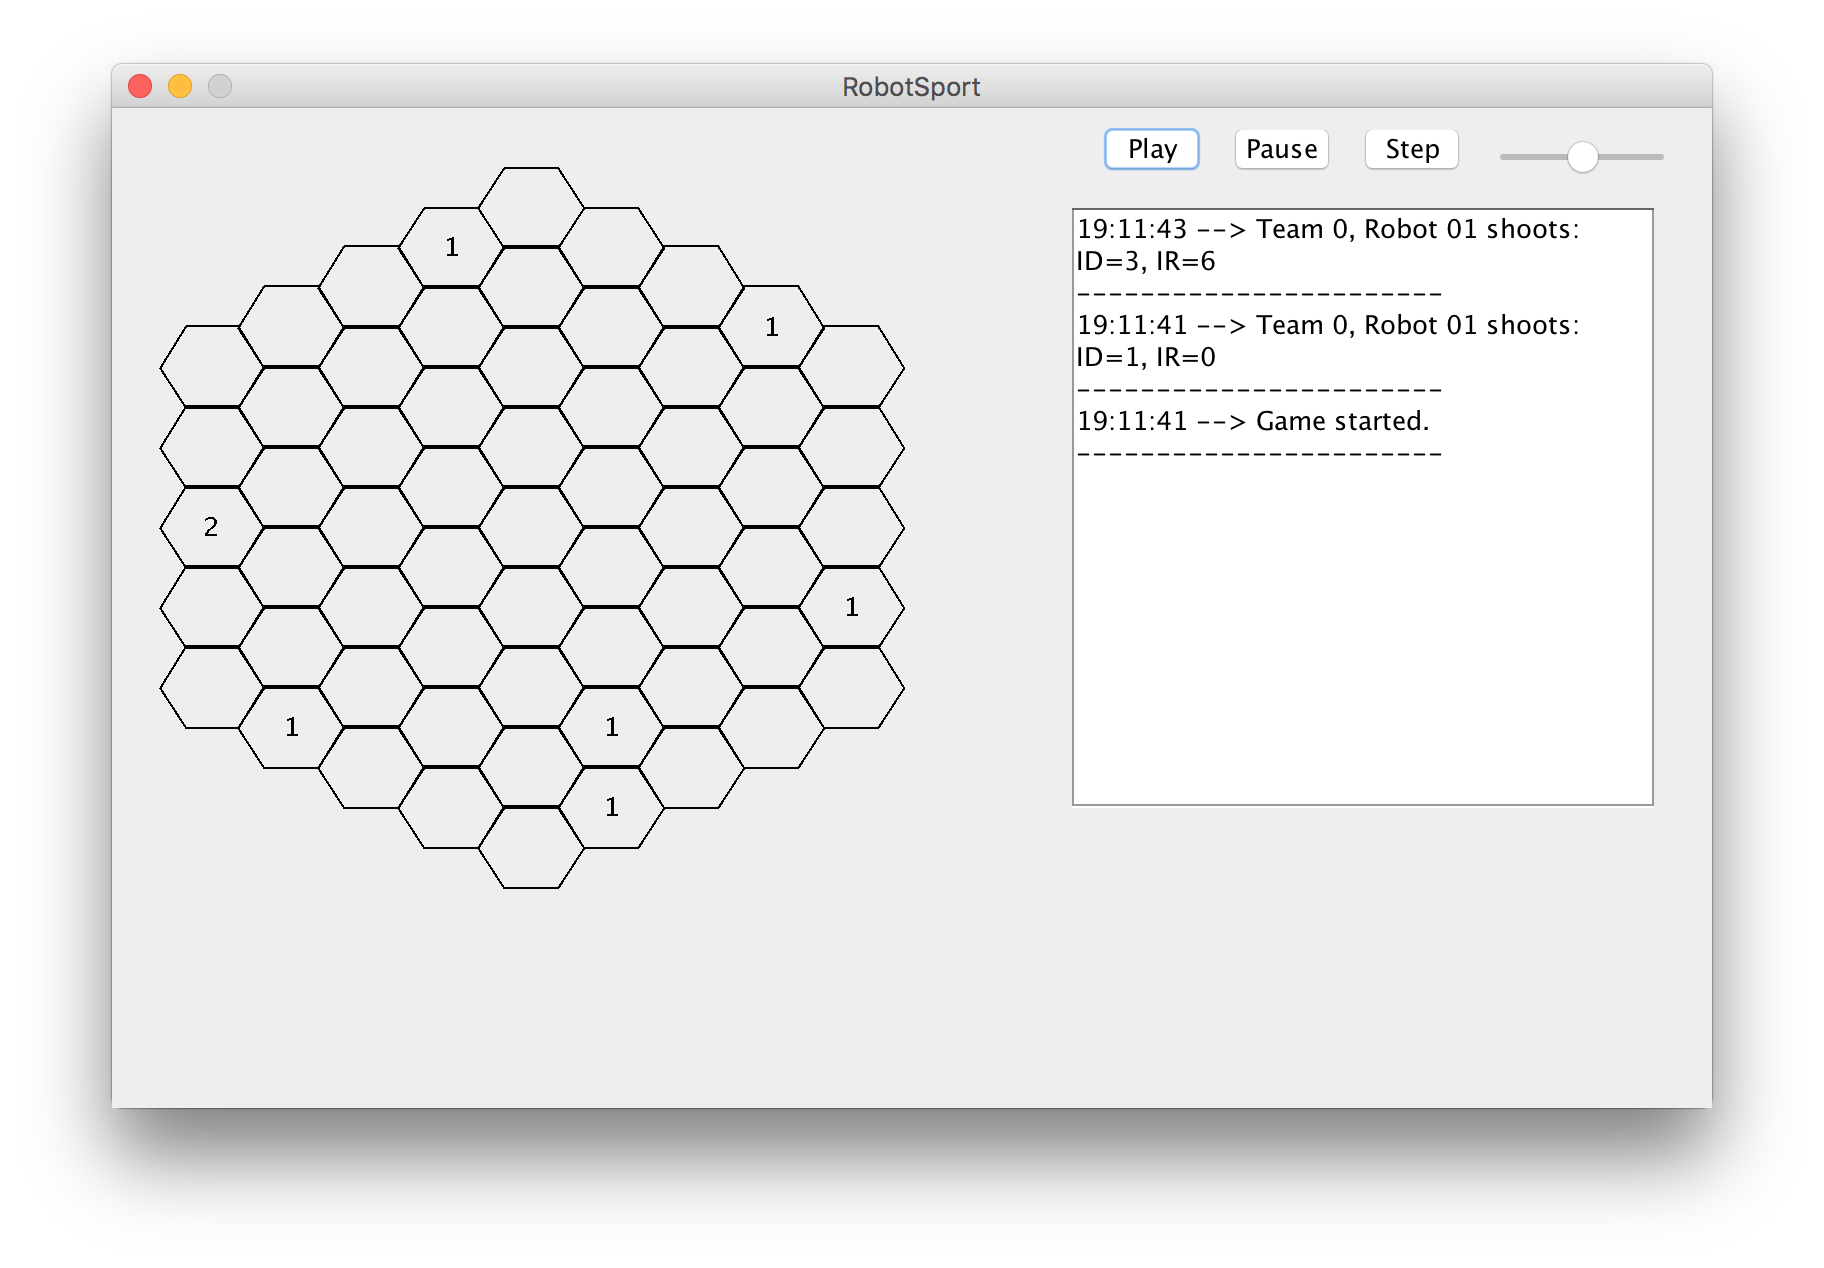
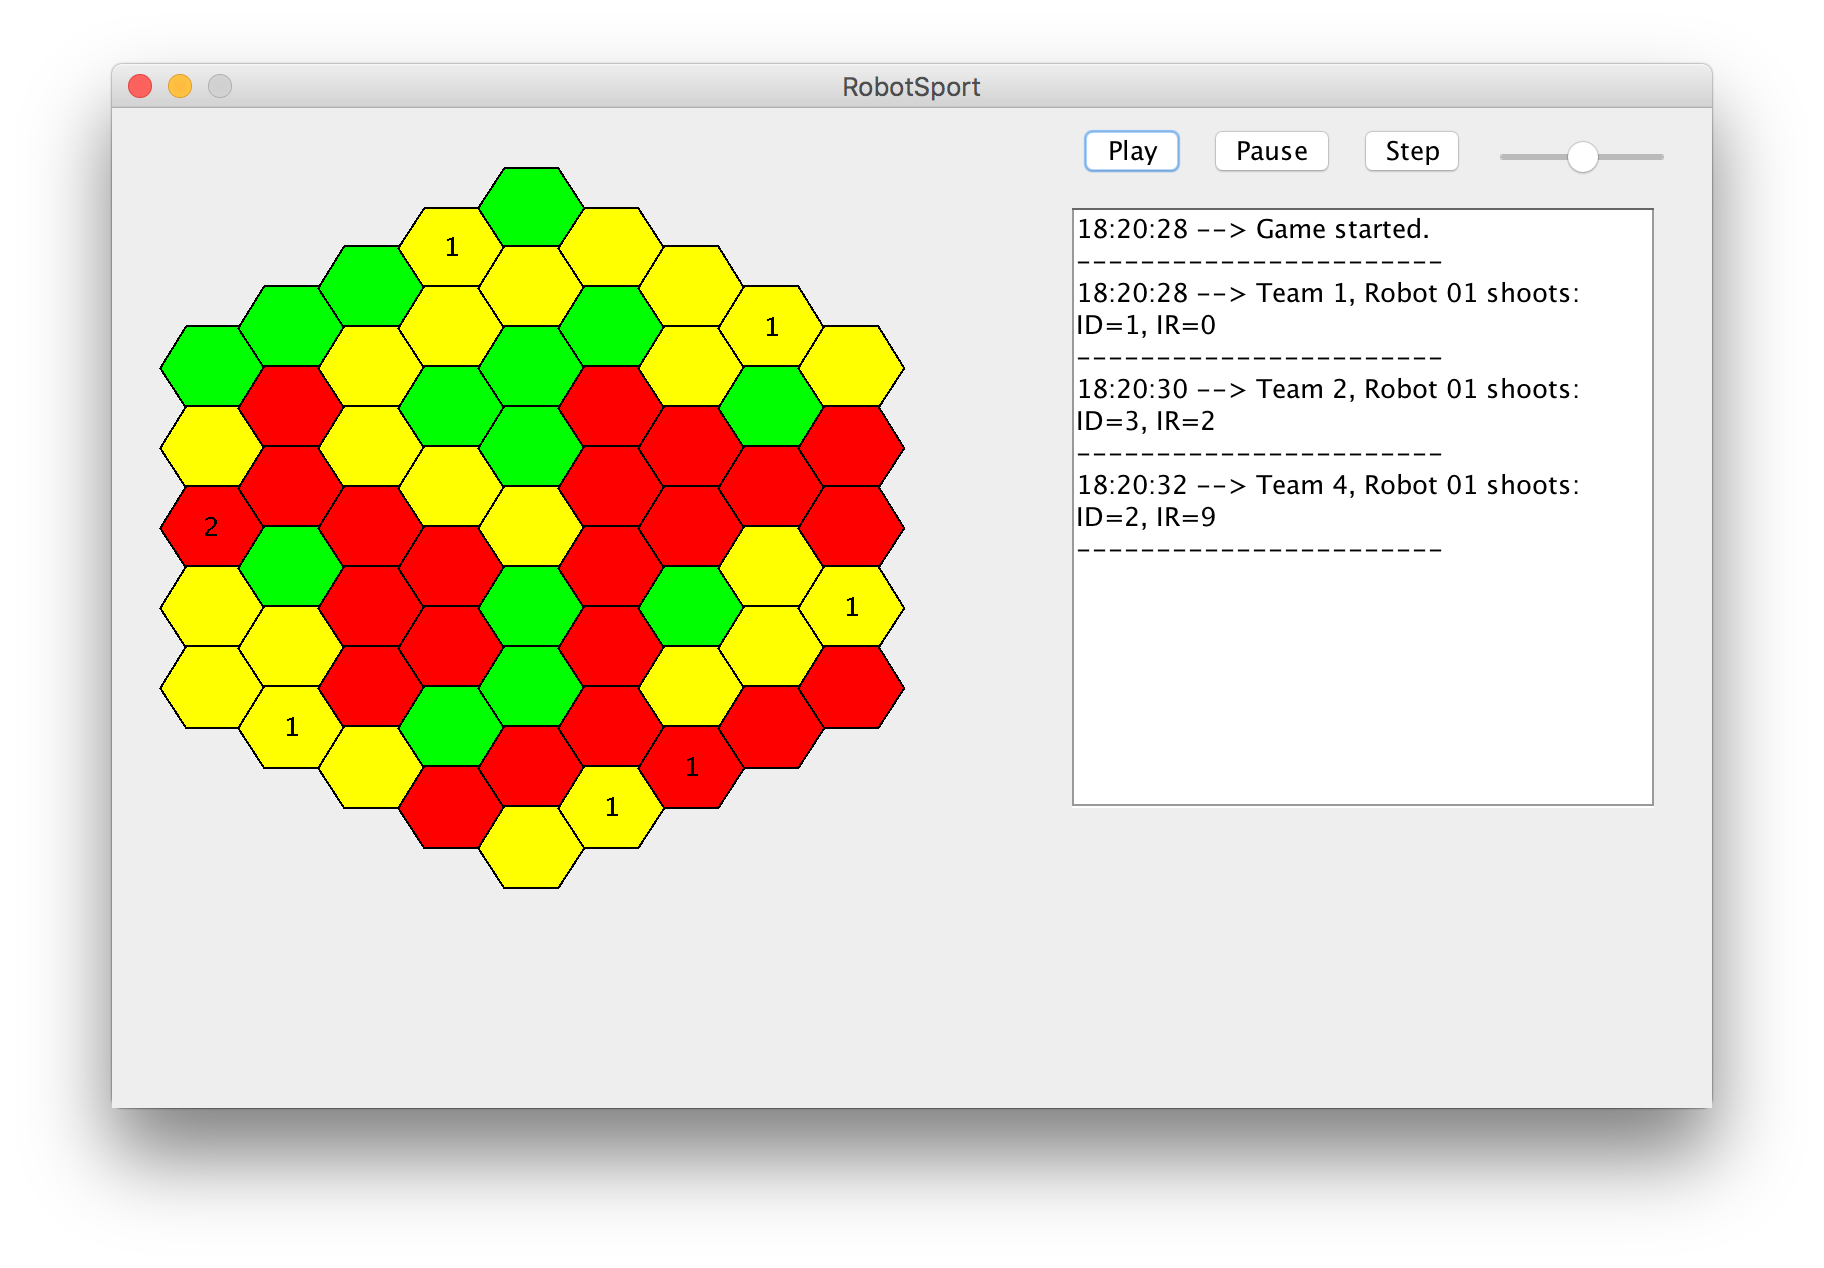
Added cell difficulties

diff --git a/src/src/views/HexGridDisplay.java b/src/src/views/HexGridDisplay.java
@@ -1,6 +1,8 @@
 package views;
 
+import java.awt.Color;
 import java.awt.Graphics;
+
 import javax.swing.JPanel;
 
 import models.Cell;
@@ -44,6 +46,21 @@ public class HexGridDisplay extends JPanel {
 						xPoint[i] = spacing + (int) (x*spacing + (spacing/1.5f)*Math.cos(i*2*Math.PI/6));
 						yPoint[i] = spacing + vertOffset + (int) (y*spacing + (spacing/1.7f)*Math.sin(i*2*Math.PI/6));
 					}
+					int difficulty = cells[x][y].getDifficulty();
+					switch(difficulty){
+					case 0:
+						g.setColor(Color.GREEN);
+						break;
+					case 1:
+						g.setColor(Color.YELLOW);
+						break;
+					case 2:
+						g.setColor(Color.RED);
+						break;
+					}
+					g.fillPolygon(xPoint, yPoint, 6);
+					g.setColor(Color.black);
+					g.drawPolygon(xPoint, yPoint, 6);
 					if(cells[x][y].getOccupants() != null) {
 						int count = cells[x][y].getOccupants().size();
 						if(count > 0) {
@@ -53,7 +70,6 @@ public class HexGridDisplay extends JPanel {
 										spacing + vertOffset + y*spacing + (getFontMetrics(getFont()).getHeight() / 4));
 						}
 					}
-					g.drawPolygon(xPoint, yPoint, 6);
 				}
 			}
 		}

diff --git a/src/src/models/Cell.java b/src/src/models/Cell.java
@@ -1,13 +1,16 @@
 package models;
 
 import java.util.LinkedList;
+import java.util.Random;
 
 public class Cell {
 	protected LinkedList<Robot> occupants = new LinkedList<Robot>();
 	protected boolean valid = false; // Cells are initially just placeholders
+	protected int difficulty;
 	
 	public Cell() {
-		
+		Random r = new Random();
+		difficulty = Math.abs(r.nextInt()) % 3;
 	}
 	
 	public boolean isValid() {
@@ -16,5 +19,9 @@ public class Cell {
 	
 	public LinkedList<Robot> getOccupants() {
 		return occupants;
+	}
+	
+	public int getDifficulty(){
+		return difficulty;
 	}
 }
